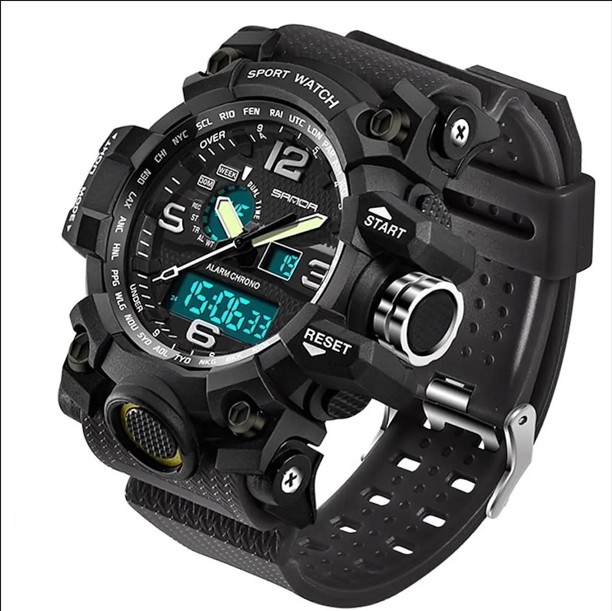
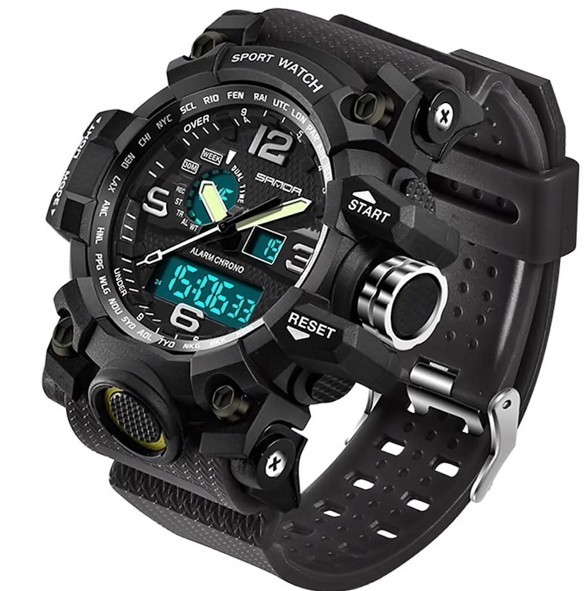
Dani: Vistas de listado y detalle terminadas, DataLoader configurado y ultimos retoques

diff --git a/Web/src/main/resources/templates/categorias/listado.html b/Web/src/main/resources/templates/categorias/listado.html
@@ -22,7 +22,7 @@
                     <img th:src="@{/imagenes/categorias/{img}(img=${cat.imagen != null ? cat.imagen : 'no-image.jpg'})}"
                          class="card-img-top rounded"
                          alt="Reloj"
-                         style="height: 200px; object-fit: cover;">
+                         style="height: 200px; object-fit: contain;">
                 </div>
 
                 <div class="card-body text-center">

diff --git a/Web/src/main/java/es/iesclaradelrey/da2d1a/tiendadrmstgabd/tiendadrmstgabdweb/controllers/TestController.java b/Web/src/main/java/es/iesclaradelrey/da2d1a/tiendadrmstgabd/tiendadrmstgabdweb/controllers/TestController.java
@@ -1,11 +1,16 @@
 package es.iesclaradelrey.da2d1a.tiendadrmstgabd.tiendadrmstgabdweb.controllers;
 
+import es.iesclaradelrey.da2d1a.tiendadrmstgabd.entitie.CategoriaReloj;
 import es.iesclaradelrey.da2d1a.tiendadrmstgabd.service.CategoriaRelojService;
+import jakarta.servlet.http.HttpServletRequest;
 import org.springframework.beans.factory.annotation.Autowired;
 import org.springframework.stereotype.Controller;
 import org.springframework.ui.Model;
 import org.springframework.web.bind.annotation.GetMapping;
+import org.springframework.web.bind.annotation.PathVariable;
 import org.springframework.web.bind.annotation.RequestMapping;
+
+import java.util.Optional;
 
 @Controller
 @RequestMapping("/categorias")
@@ -14,8 +19,22 @@ public class TestController {
     private CategoriaRelojService service;
 
     @GetMapping
-    public String testList(Model model) {
+    public String testList(HttpServletRequest request, Model model) {
         model.addAttribute("categorias", service.buscarTodo());
+        model.addAttribute("requestURI", request.getRequestURI());
         return "categorias/listado";
+    }
+
+    @GetMapping("/{id}")
+    public String detalle(@PathVariable Long id, HttpServletRequest request, Model model) {
+        Optional<CategoriaReloj> cat = service.buscarPorId(id);
+
+        if (cat.isPresent()) {
+            model.addAttribute("categoria", cat.get());
+            model.addAttribute("requestURI", request.getRequestURI());
+            return "categorias/detalle";
+        }
+
+        return "redirect:/categorias"; // Si el ID no existe, vuelve atrás
     }
 }
